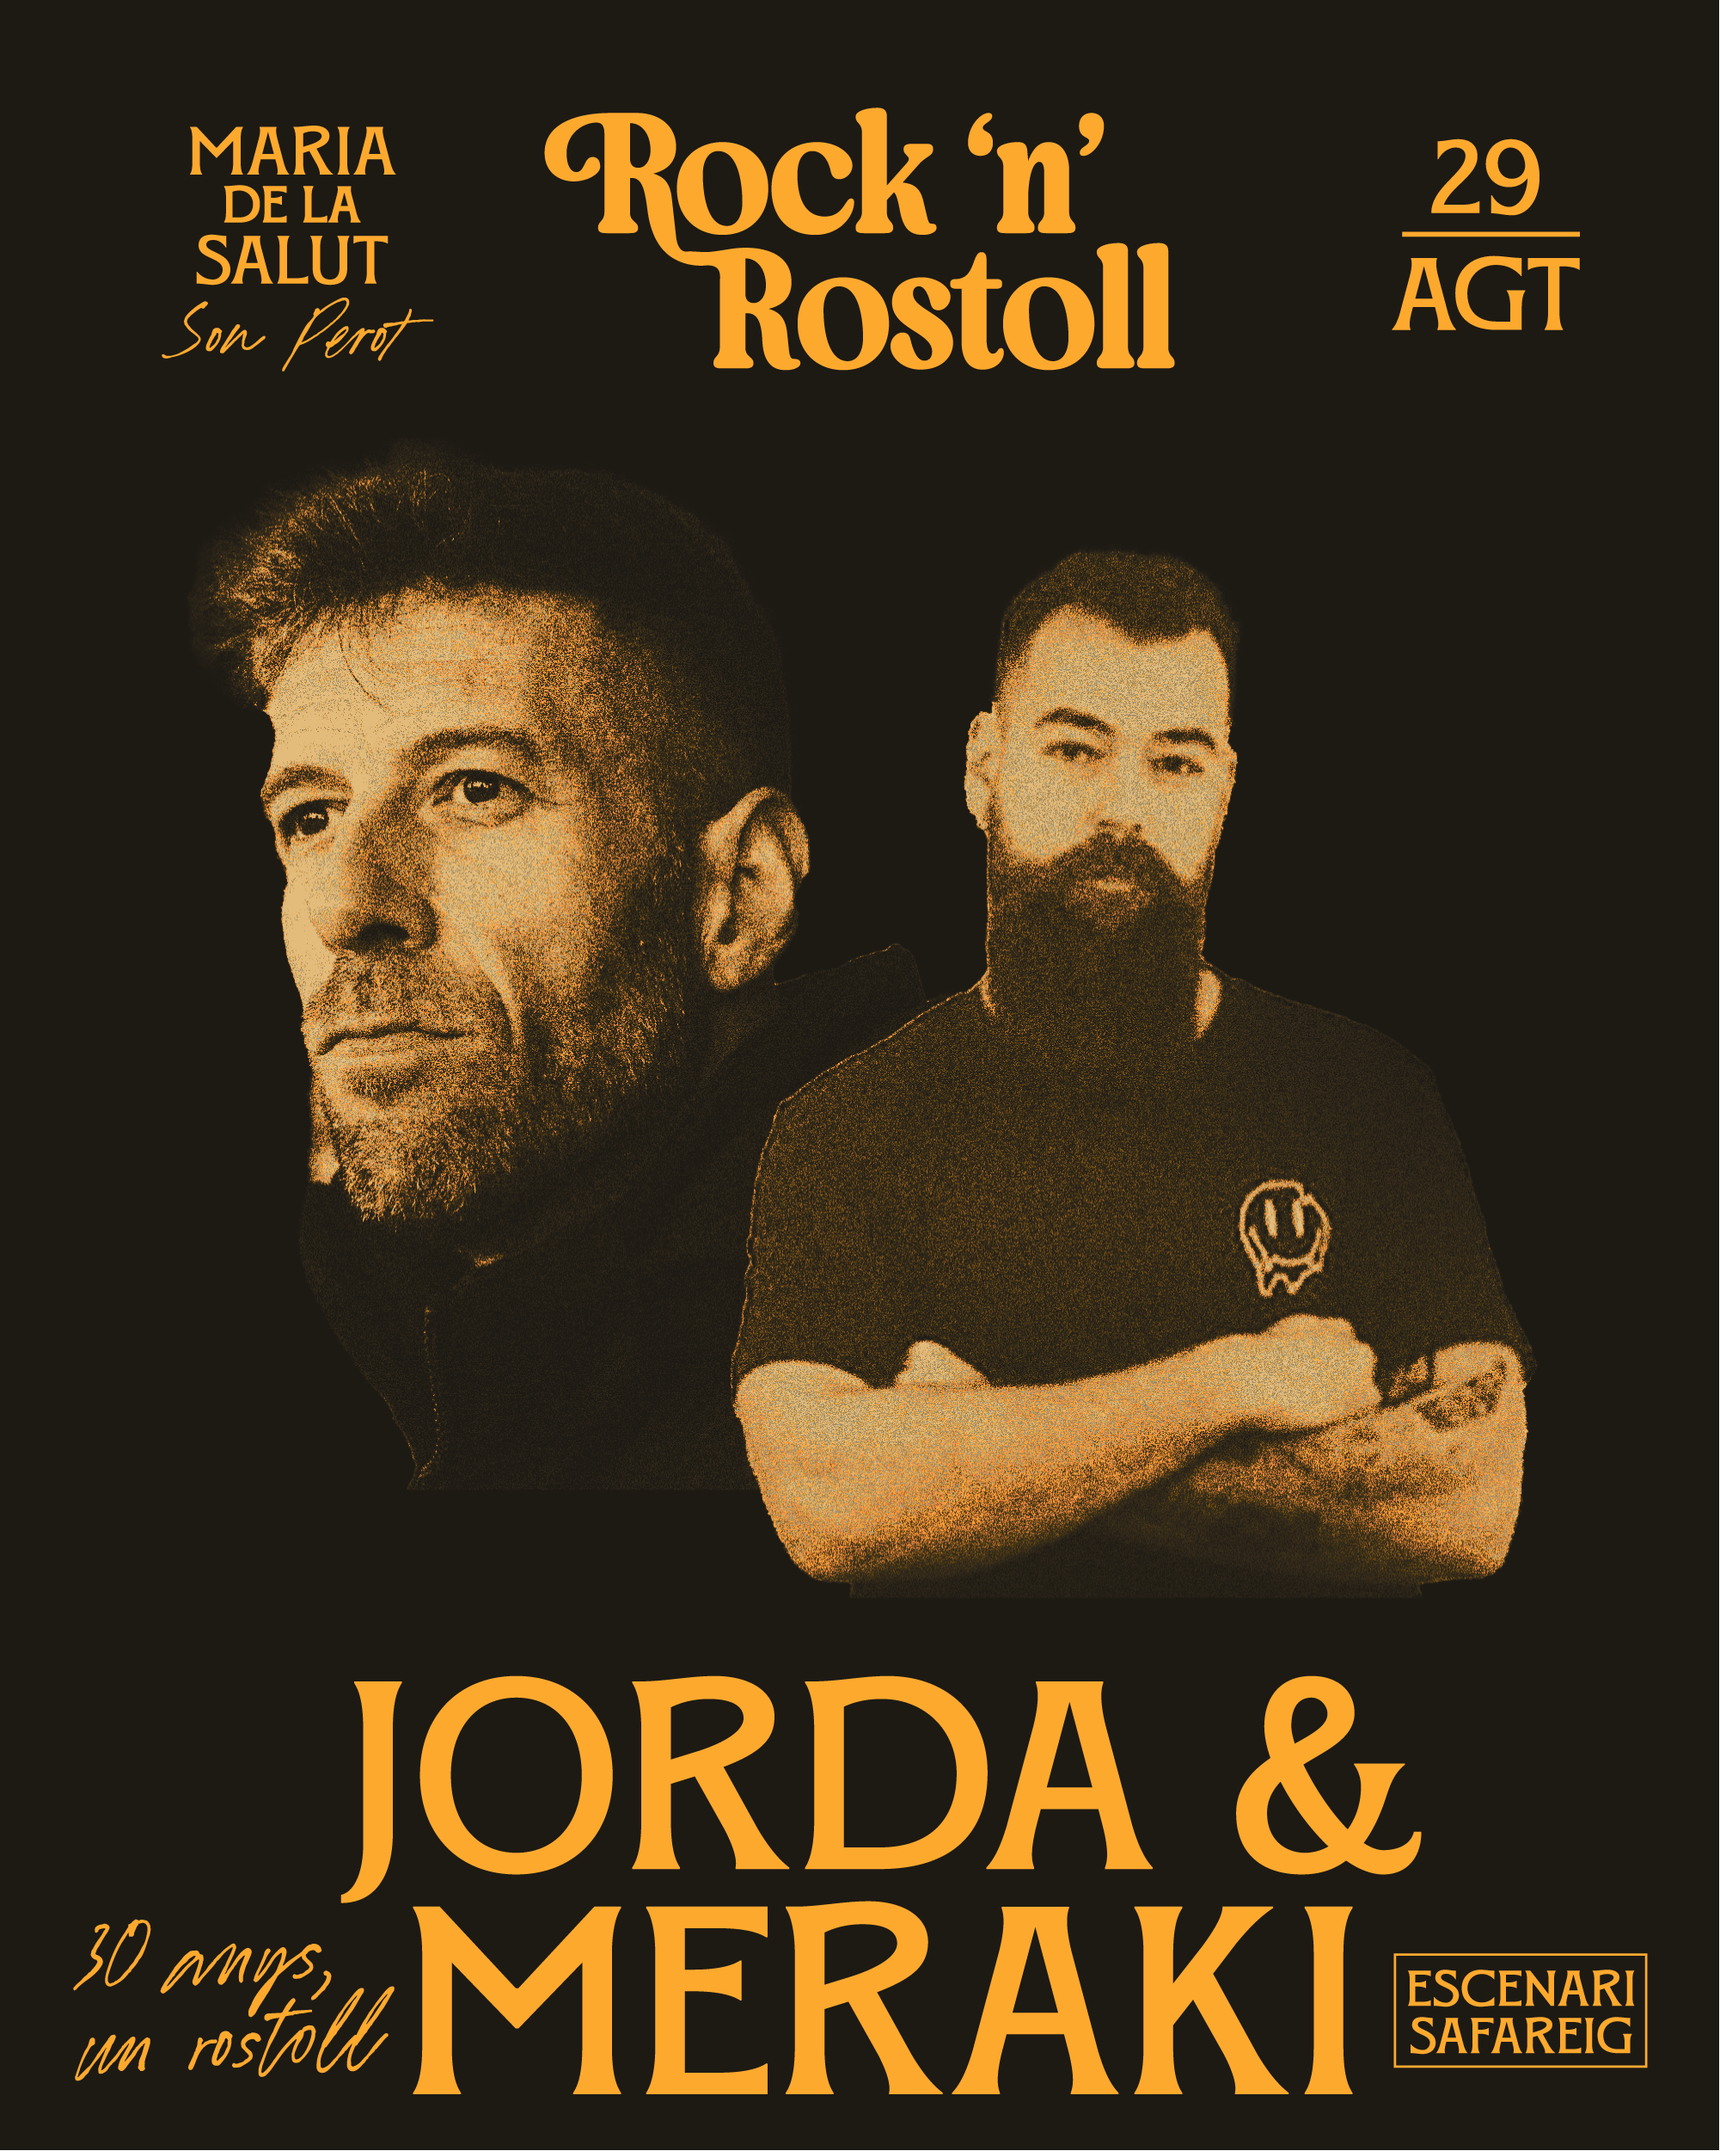
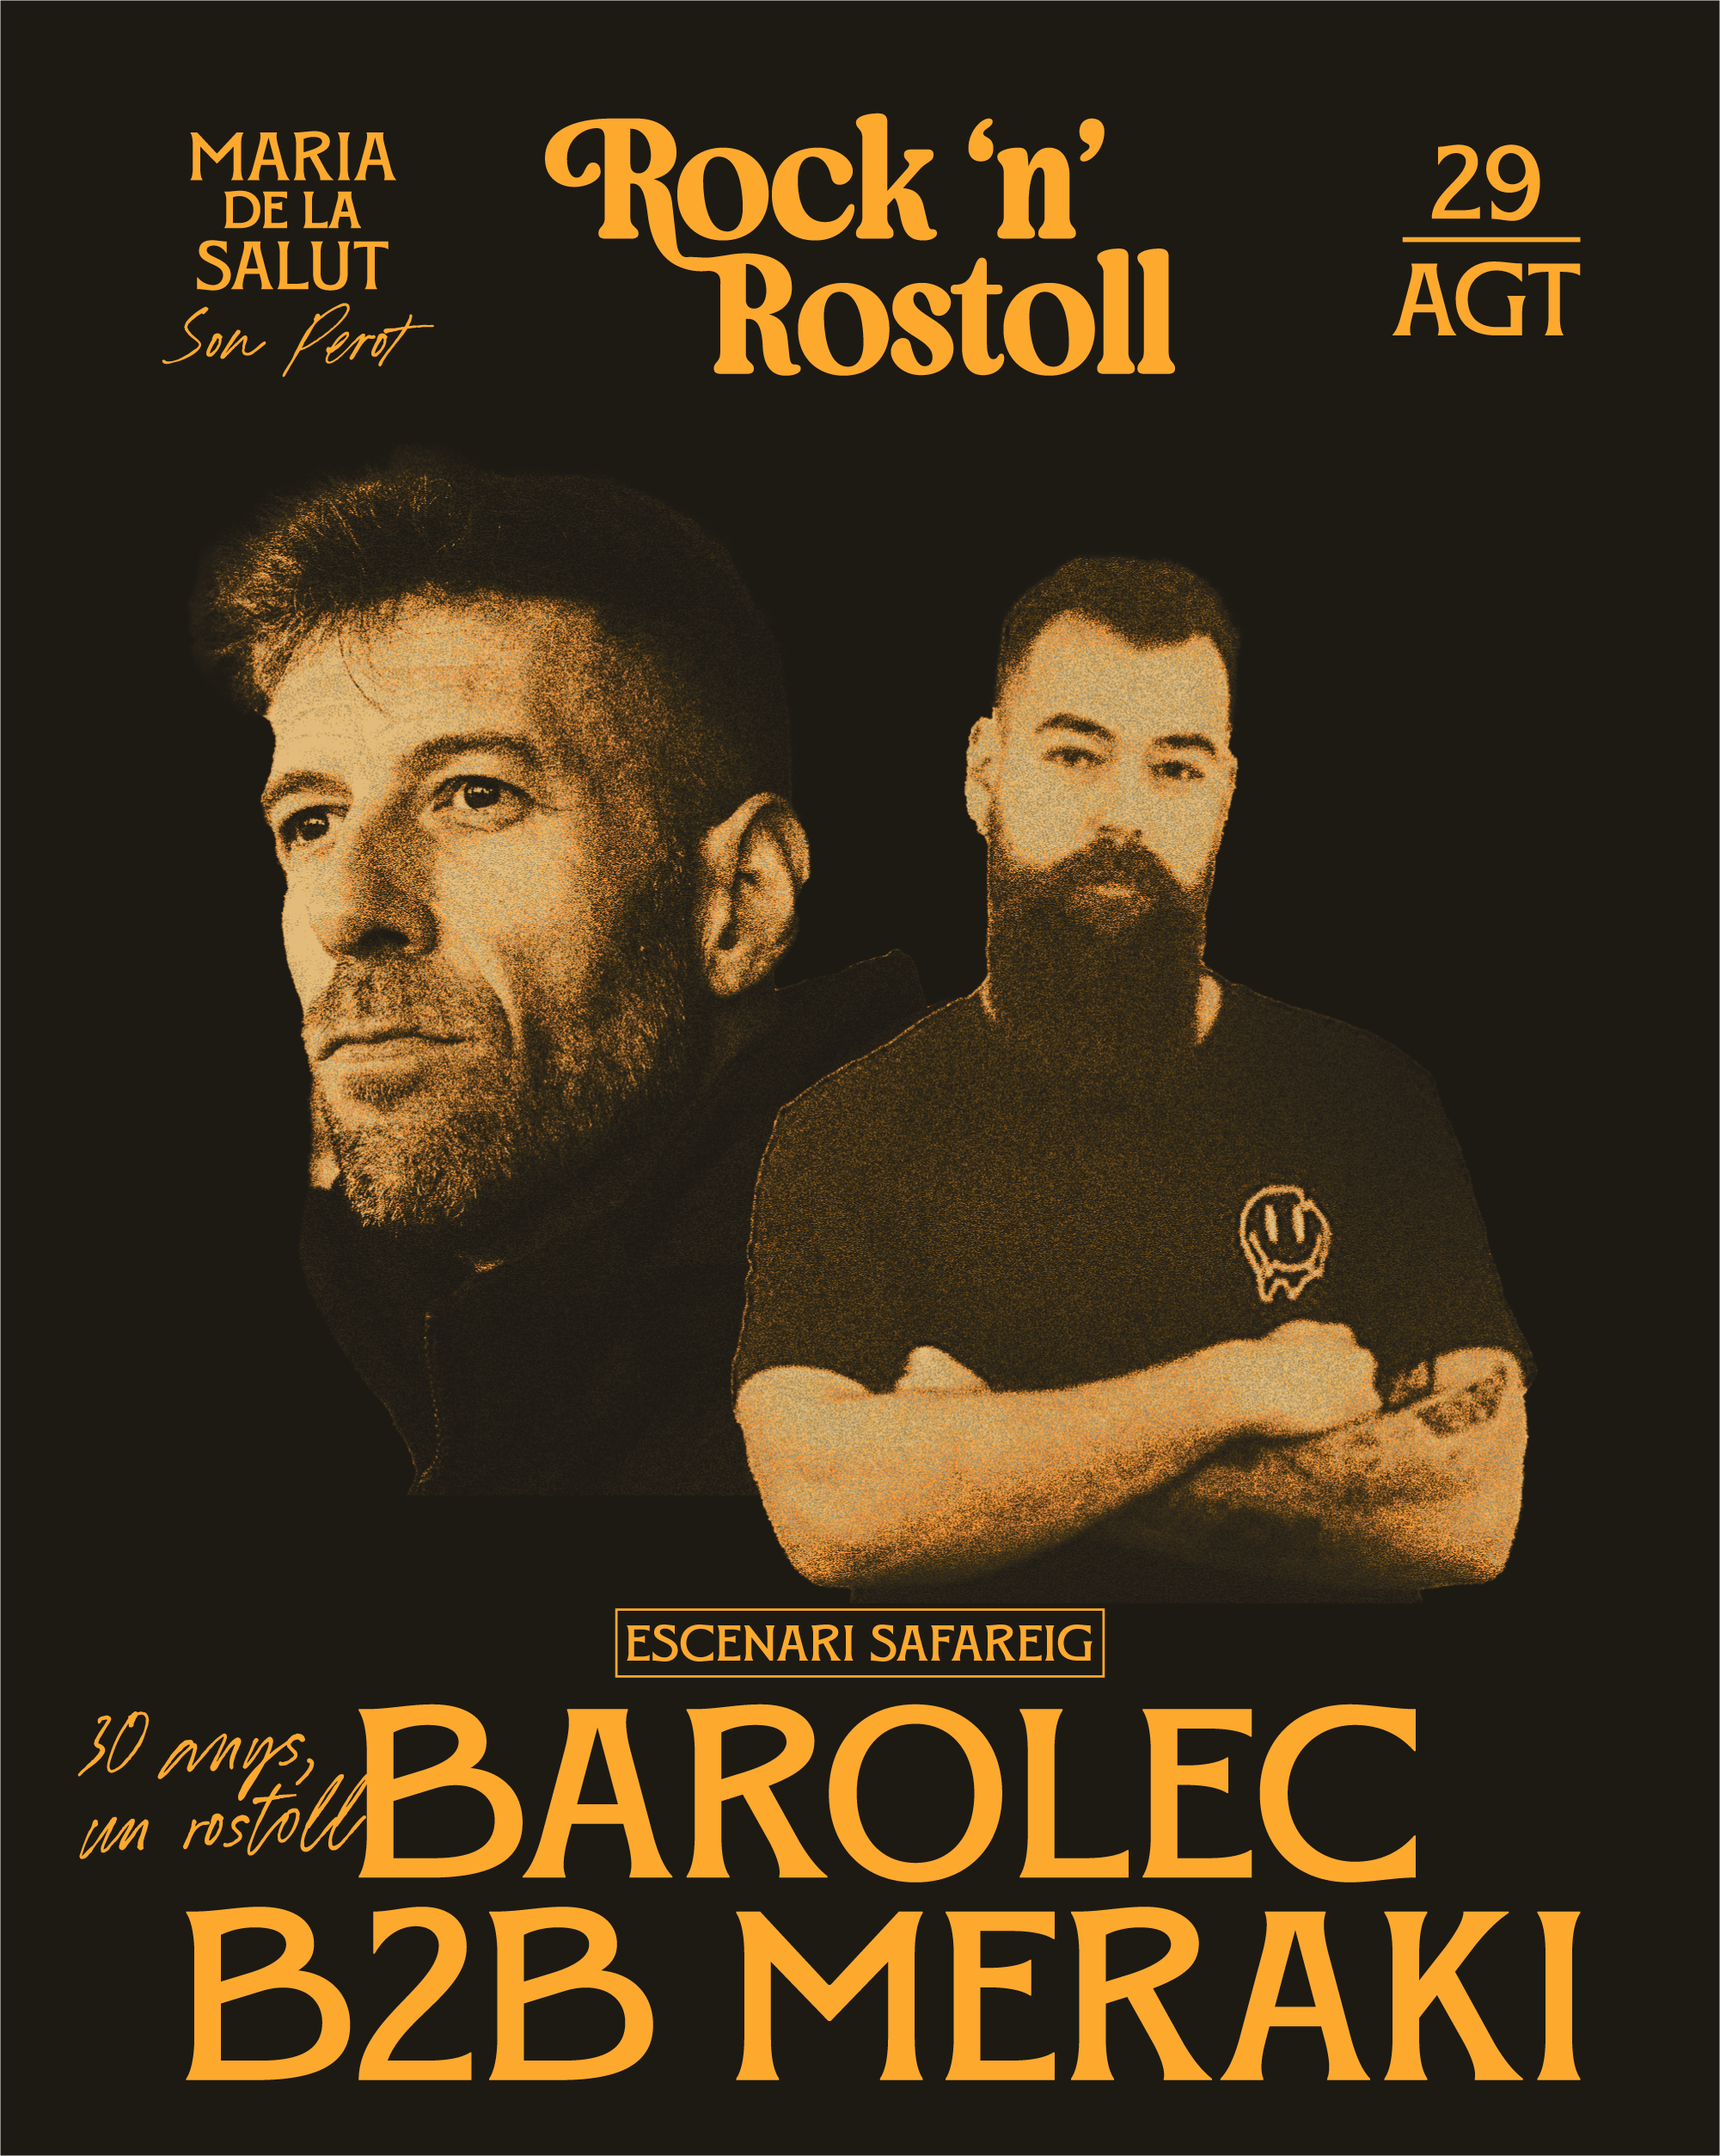
altres

diff --git a/src/pages/Success.jsx b/src/pages/Success.jsx
@@ -54,9 +54,7 @@ export default function Success() {
                 />
                 <section className="page-section section-alt" style={{ textAlign: 'center', minHeight: '40vh' }}>
                     <div className="page-content">
-                        <div style={{ fontSize: '4rem', marginBottom: '1rem' }}>🎉</div>
-                        <h2>Comanda Confirmada</h2>
-                        <p>Hem rebut el teu pagament correctament. Rebràs un correu de confirmació aviat.</p>
+                        <h2 style={{ marginBottom: '1.5rem' }}>🎉 Comanda Confirmada</h2>
 
                         {status === "loading" && (
                             <p className="section-description">Preparant el teu codi de recollida...</p>
@@ -64,7 +62,7 @@ export default function Success() {
 
                         {status === "ready" && order?.pickupCode && (
                             <div style={{
-                                margin: '2rem auto 0',
+                                margin: '0 auto',
                                 maxWidth: '24rem',
                                 padding: '1.5rem',
                                 borderRadius: '1rem',
@@ -90,6 +88,8 @@ export default function Success() {
                                 El podràs consultar més tard, o presentar el rebut de pagament al recollir-la.
                             </p>
                         )}
+
+                        <p style={{ marginTop: '1.5rem' }}>Hem rebut el teu pagament correctament. Rebràs un correu de confirmació aviat.</p>
 
                         <button
                             onClick={() => navigate('/')}

diff --git a/api/checkout.js b/api/checkout.js
@@ -201,9 +201,12 @@ export default async function handler(req, res) {
                 custom_text: {
                     // Text fix, no editable: apareix a la pantalla de pagament abans
                     // de confirmar, i es torna a mostrar a la pantalla de confirmació
-                    // de Stripe just abans de redirigir a /success.
-                    submit: { message: `El teu codi de recollida serà: ${pickupCode}` },
-                    after_submit: { message: `El teu codi de recollida és: ${pickupCode}. Guarda'l, l'hauràs de presentar per recollir la comanda.` },
+                    // de Stripe just abans de redirigir a /success. Stripe no permet
+                    // controlar la mida de font (renderitza el text amb el seu propi
+                    // estil fix); només accepta un subconjunt de Markdown (negreta i
+                    // enllaços), així que remarquem el codi en negreta.
+                    submit: { message: `El teu codi de recollida serà: **${pickupCode}**` },
+                    after_submit: { message: `El teu codi de recollida és **${pickupCode}**. Guarda'l, l'hauràs de presentar per recollir la comanda.` },
                 },
                 line_items: line_items,
                 mode: 'payment',

diff --git a/src/data/lineup.js b/src/data/lineup.js
@@ -146,15 +146,15 @@ export const lineup = [
   },
   {
     id: 12,
-    name: "Jordà & Meraki",
-    initials: "JM",
+    name: "Merak & Barolec",
+    initials: "MB",
     color: "#4e2a84",
     origin: "MALLORCA",
     genres: ["Techno"],
     stage: "safareig",
     time: "1:30 - 3:00",
     description:
-      "Dupla de DJs amb dècades d'experiència a les cabines de l'illa, que combinen la seva polivalència sonora fusionant breakbeats, electro-house i tech-house per garantir un viatge sonor immersiu.",
+      "Dupla de DJs amb dècades d'experiència a les cabines de l'illa, que combinen la seva polivalència sonora per garantir un viatge sonor immersiu.",
     photo: "/img/fotos2026/lineup2026/jordameraki.png",
   },
   {
